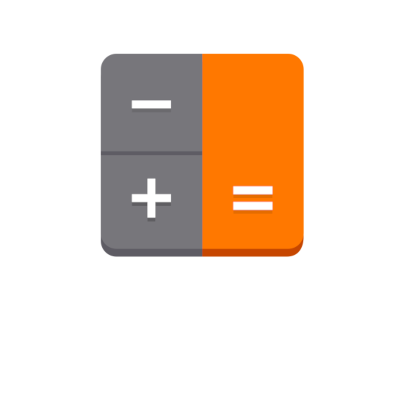
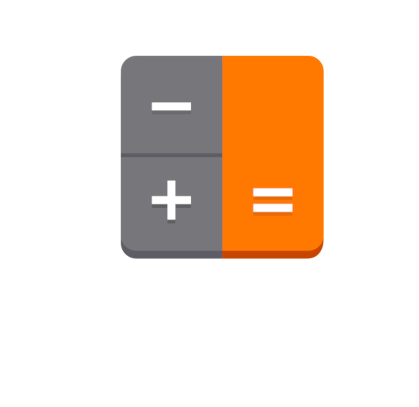
Update README.md

Changed region(s): [[0.2172, 0.1179, 0.7757, 0.6486]]

diff --git a/README.md b/README.md
@@ -1,8 +1,18 @@
-<p>
+<p align="center">
    <a href="https://iamlucasmagalhaes.github.io/calc.js/">
-    <img src="assets/Calculator (1).png">
+    <img src="assets/Calculator.png">
    </a>
 </p>
 
 ## about
-This project is a calculator, built using HTML, CSS and JavaScript.
+This project is a calculator, built using HTML, CSS and JavaScript. The idea behind the calculator is to provide a functional and intuitive tool to perform basic mathematical operations directly in the browser.
+
+## main Features
+* Basic Operations: Addition, subtraction, multiplication and division.
+
+* Intuitive Interface: Clean and organized design for easy use by anyone.
+
+* Responsiveness: The calculator is designed to work well on devices of different sizes, from desktops to smartphones.
+
+ ## attention
+ For test the calculator just click on the image or click in that link <a href="https://iamlucasmagalhaes.github.io/calc.js/" style = "text-decoration: underline;">Calc.js</a>
